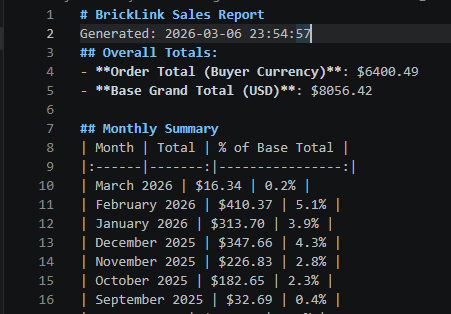
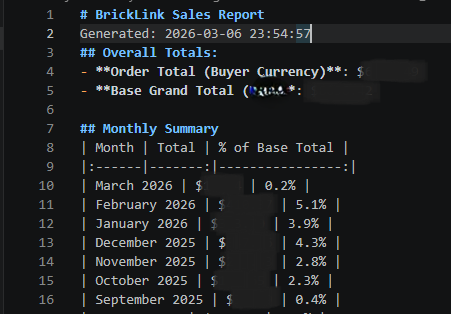
Photos!

diff --git a/index.html b/index.html
@@ -871,7 +871,7 @@
     <h2 class="projects-intro">Projects and <strong>side work.</strong></h2>
     <p class="projects-sub">Tools and programs I've written outside of my day job, plus the business behind most of them.</p>
 
-    <!-- Price Automation Tool — BrickLink icon -->
+    <!-- Price Automation Tool -->
     <div class="project-card project-card-img">
       <div class="project-card-content">
         <div class="project-header">
@@ -889,7 +889,6 @@
           <span class="tech-tag">automation</span>
         </div>
       </div>
-<<<<<<< Updated upstream
       <p class="project-desc">
         A Python program that cycles through my LEGO inventory listings on BrickLink and eBay, 
         analyzes price history and sale velocity, and adjusts prices based on configurable 
@@ -902,22 +901,12 @@
         <span class="tech-tag">eBay API</span>
         <span class="tech-tag">data analysis</span>
         <span class="tech-tag">automation</span>
-=======
       <div class="project-visual">
-        <!--
-          TO ADD THE BRICKLINK ICON:
-          Replace this div's contents with:
-          <img src="photos/bricklink.png" alt="BrickLink icon">
-          (put bricklink.png in the photos/ folder)
-        -->
-        <div class="project-visual-placeholder">
-          &#129521;<br>Add<br>bricklink.png
-        </div>
->>>>>>> Stashed changes
+        <img src="photos/bricklinkLogo.PNG" alt="Bricklink">
       </div>
     </div>
 
-    <!-- Sales Tracker — user screenshot placeholder -->
+    <!-- Sales Tracker -->
     <div class="project-card project-card-img">
       <div class="project-card-content">
         <div class="project-header">
@@ -934,7 +923,6 @@
           <span class="tech-tag">CLI</span>
         </div>
       </div>
-<<<<<<< Updated upstream
       <p class="project-desc">
         A Python application that aggregates store metrics across my e-commerce operation, 
         tracks sale history, and generates performance reports on demand. Shows what's selling, 
@@ -945,14 +933,12 @@
         <span class="tech-tag">data aggregation</span>
         <span class="tech-tag">reporting</span>
         <span class="tech-tag">CLI</span>
-=======
       <div class="project-visual">
-        <img src="photos/SalesTracker.PNG" alt="Sales Tracker screenshot">
->>>>>>> Stashed changes
+        <img src="photos/salesTracker.PNG" alt="Sales Tracker screenshot">
       </div>
     </div>
 
-    <!-- Mandelbrot Set Generator — live canvas render -->
+    <!-- Mandelbrot Set Generator -->
     <div class="project-card project-card-img">
       <div class="project-card-content">
         <div class="project-header">
@@ -968,7 +954,6 @@
           <span class="tech-tag">mathematics</span>
         </div>
       </div>
-<<<<<<< Updated upstream
       <p class="project-desc">
         A C program that renders the Mandelbrot set as an image. Resolution, coordinate bounds, 
         and iteration depth are all configurable via command-line inputs. Written with a mentor 
@@ -978,18 +963,8 @@
         <span class="tech-tag">C</span>
         <span class="tech-tag">graphics</span>
         <span class="tech-tag">mathematics</span>
-=======
       <div class="project-visual">
-        <!--
-          TO ADD THE MANDELBROT IMAGE:
-          Replace this div's contents with:
-          <img src="photos/mandelbrot.png" alt="Mandelbrot set">
-          (put mandelbrot.png in the photos/ folder)
-        -->
-        <div class="project-visual-placeholder">
-          &#128195;<br>Add your<br>mandelbrot.png
-        </div>
->>>>>>> Stashed changes
+        <img src="photos/mandelbrotHighRes.png" alt="Generated Mandelbrot Image">
       </div>
     </div>
 
@@ -1137,7 +1112,6 @@
       </div>
     </div>
 
-<<<<<<< Updated upstream
   <div class="section-divider"></div>
 
   <!-- RESUME -->
@@ -1150,26 +1124,13 @@
       <div class="resume-downloads">
         <a href="KrisKruegerResumeWeb.pdf" class="btn btn-primary" download>Download Resume ↓</a>
         <a href="https://linkedin.com/in/kristopher-krueger" target="_blank" class="btn btn-ghost">LinkedIn ↗</a>
-=======
-    <!-- Running photos — replace placeholder divs with <img src="your-photo.jpg"> -->
     <div class="running-photos">
       <div class="running-photo">
-        <!--
-          TO ADD PHOTO 1:
-          Replace this div's contents with:
-          <img src="photos/run-photo-1.jpg" alt="Running photo">
-        -->
-        <div class="running-photo-placeholder">&#127939;<br>Add photo<br>(jpg or png)</div>
->>>>>>> Stashed changes
+        <img src="seneca50K.png" alt="Seneca 50k">
       </div>
       <div class="running-photo">
-        <!--
-          TO ADD PHOTO 2:
-          <img src="photos/run-photo-2.jpg" alt="Running photo">
-        -->
-        <div class="running-photo-placeholder">&#127939;<br>Add photo<br>(jpg or png)</div>
+        <img src="photos/100miler.png" alt="100 Miler">
       </div>
-<<<<<<< Updated upstream
 
       <div class="resume-section">
         <h3>Skills</h3>
@@ -1201,14 +1162,12 @@
           <div class="resume-item-org">James Madison University</div>
           <div class="resume-item-desc">Minors: Mathematics, Physics, Honors. President's List 2019–2021.</div>
         </div>
-=======
       <div class="running-photo">
         <!--
           TO ADD PHOTO 3:
           <img src="photos/run-photo-3.jpg" alt="Running photo">
         -->
-        <div class="running-photo-placeholder">&#127939;<br>Add photo<br>(jpg or png)</div>
->>>>>>> Stashed changes
+        <img src="photos/jfk50miler.png" alt="JFK 50 Miler">
       </div>
     </div>
   </section>
